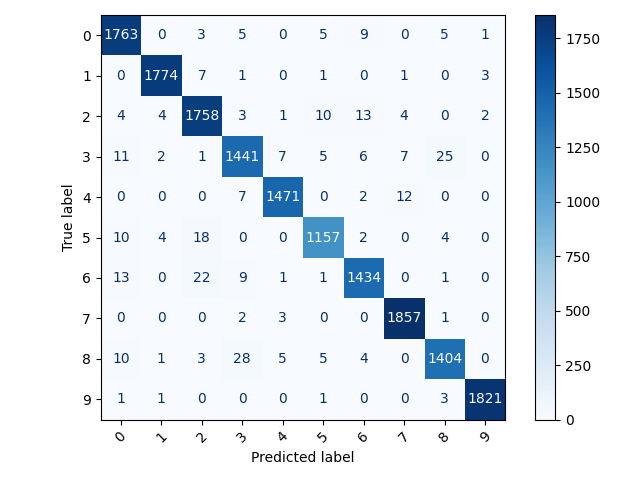
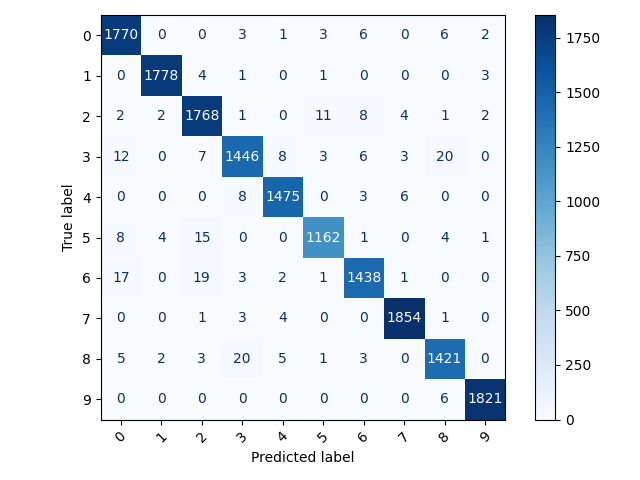
Update README.md with revised training parameters and analysis; modify exploration notebook execution counts; adjust training function to increase epochs from 10 to 20.

diff --git a/src/train.py b/src/train.py
@@ -81,7 +81,7 @@ def validate_batch(x: torch.Tensor, y: torch.Tensor, model: nn.Module, criterion
     return loss.item(), preds_cpu, labels_cpu
 
 
-def train(num_epochs: int = 10, save_path: str = "artifacts/best_model.pth", patience: int = 5):
+def train(num_epochs: int = 20, save_path: str = "artifacts/best_model.pth", patience: int = 5):
     best_val_acc = 0.0
     patience_counter = 0
     os.makedirs("artifacts", exist_ok=True)

diff --git a/README.md b/README.md
@@ -94,15 +94,16 @@ graph TD
 
 * **Training Setup**:
 
-  * Optimizer: Adam, lr=1e-4
-  * Batch Size: 64
-  * Epochs: 25
+  * Optimizer: Adam (lr=1e-4)
+  * Batch Size: 32
+  * Epochs: 20
 
 * **Results**:
-
-  * Accuracy: \~97%
-  * F1 Score: 0.96
-  * Confusion Matrix shows strong separation between agricultural and urban classes.
+  * Validation Accuracy: \~94.75%
+  * F1 Score: ~0.95
+  * 
+* **Analysis**:
+  * The model achieved strong performance through efficient fine-tuning, training only 4.3% of parameters. The confusion matrix shows excellent class separation, particularly between agricultural and urban categories, with minimal misclassification.
 
 ### Dataset Preview
 
